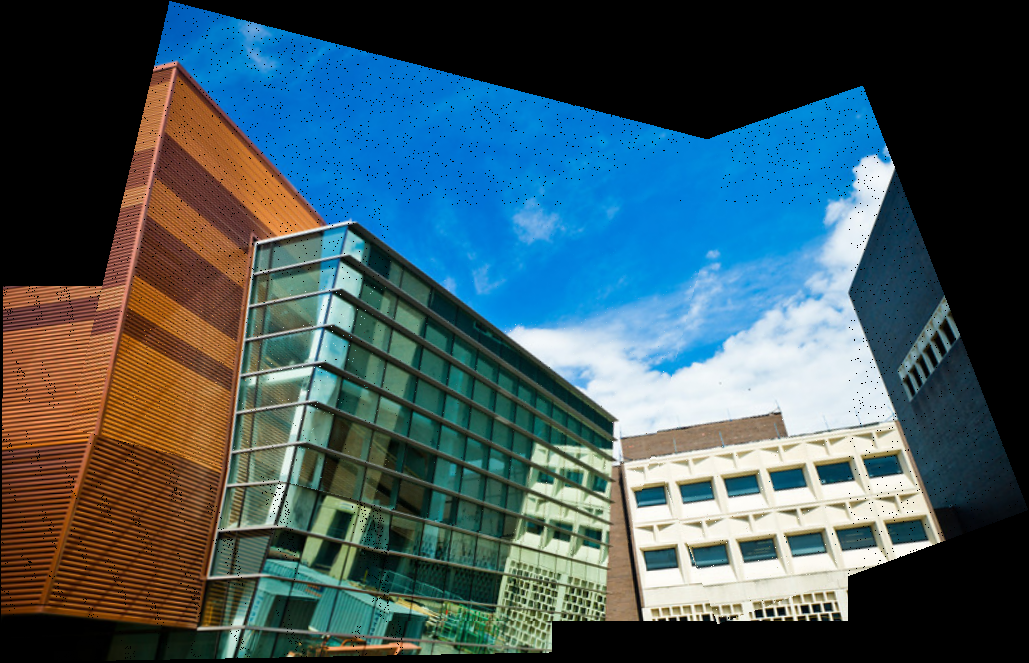
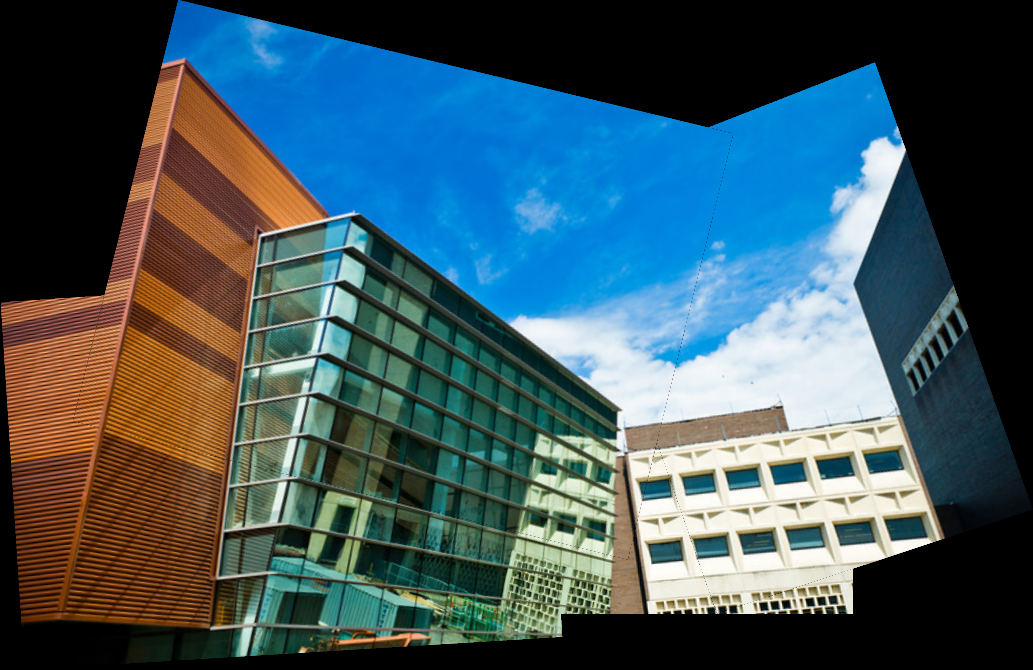
really good non feathering stiching of task2

diff --git a/stitching.py b/stitching.py
@@ -222,52 +222,91 @@ def panorama(imgs: Dict[str, torch.Tensor]):
     overlap = torch.empty((3, 256, 256), dtype=torch.uint8) # assumed empty 256*256 overlap. Update this as per your logic.
 
     #TODO: Add your code here. Do not modify the return and input arguments.
-    save = True
-    load = True
+    if torch.backends.mps.is_available():
+        device = torch.device("mps")
+    else:
+        device = torch.device("cpu")
     data = {}
     max_h = 0
     max_w = 0
+    descriptor = "disk" # dedode
+    matchalgo = "lightglue" # lightglue
+    loftr = None
+    dedode = None
+    disk = None
+    lg = None
     for k, v in imgs.items():
 
         v = v / 255
         if v.ndim == 3:
             v = v.unsqueeze(0)
+        if v.shape[3] > 900 or v.shape[2] > 900:
+            v = torch.nn.functional.interpolate(v, scale_factor=0.5, mode="bilinear", align_corners=False)
         imgs[k] = v
         max_h = max(max_h, v.shape[2])
         max_w = max(max_w, v.shape[3])
+
     keys = list(imgs.keys())
-    for k, v in imgs.items():
-        imgs[k] = torch.nn.functional.pad(v, (0,  max_w - imgs[k].shape[3], 0, max_h - imgs[k].shape[2]))
+
+    # for k, v in imgs.items():
+        # imgs[k] = torch.nn.functional.pad(v, (0,  max_w - imgs[k].shape[3], 0, max_h - imgs[k].shape[2]))
         # print(imgs[k].shape)
-    if save or not load:
-        dedode = K.feature.DeDoDe.from_pretrained(detector_weights="L-C4-v2", descriptor_weights="B-upright")
-        lg = K.feature.LightGlue("dedodeb").eval()
+
+    if descriptor == "disk":
+        disk = K.feature.DISK.from_pretrained("depth").to(device)
+        for k, v in imgs.items():
+            features = disk(v.to(device), pad_if_not_divisible=True)[0]
+            data[k] = {
+                "points": (features.keypoints.cpu(), features.descriptors.cpu()),
+                "matches": 0
+            }
+        del disk
+    else:
+        dedode = K.feature.DeDoDe.from_pretrained(detector_weights="L-C4-v2", descriptor_weights="B-upright").to(device)
 
         for k, v in imgs.items():
 
-            keypoints, scores, descriptors = dedode(v, apply_imagenet_normalization=True)
+            keypoints, _, descriptors = dedode(v.to(device), apply_imagenet_normalization=True, n=1000) #n=2000
             data[k] = {
-                "dedode": (keypoints, scores, descriptors),
+                "points": (keypoints.cpu(), descriptors.cpu()),
                 "matches": 0
             }
-        print("descriptors done")
-        matcher = K.feature.match_smnn
-        loftr = K.feature.LoFTR(pretrained='indoor_new')
-        # RANSAC params
-        inl_th = 1.5
-        max_iter = 50
-        confidence = 0.999
-        max_lo_iters = 15
-        ransac = K.geometry.RANSAC("homography", inl_th, max_iter, max_lo_iters, confidence)
+        del dedode
 
+
+
+    if device =="mps":
+        torch.mps.empty_cache()
+
+    print("descriptors done")
+
+    matcher = K.feature.match_smnn
+
+    if matchalgo == "loftr":
+        loftr = K.feature.LoFTR(pretrained='indoor_new')
+    else:
+        if descriptor == "disk":
+            lg = K.feature.LightGlue("disk").eval().to(device)
+        else :
+            lg = K.feature.LightGlue("dedodeb").eval().to(device) # checck if B is better,
+
+    # RANSAC params
+    inl_th = 0.5
+    max_iter = 200
+    confidence = 0.9999
+    max_lo_iters = 20
+    ransac = K.geometry.RANSAC("homography", inl_th=inl_th, max_iter=max_iter, confidence=confidence, max_lo_iters=max_lo_iters).to(device)
+
+    with torch.no_grad():
         for i in range(len(keys)):
             for j in range(i + 1, len(keys)):
                 k1 = keys[i]
                 k2 = keys[j]
-                k1keypoints, k1scores, k1descriptors = data[k1]["dedode"]
-                k2keypoints, k2scores, k2descriptors = data[k2]["dedode"]
-                k1descriptors = k1descriptors.squeeze(0)
-                k2descriptors = k2descriptors.squeeze(0)
+                k1keypoints, k1descriptors = data[k1]["points"]
+                k2keypoints, k2descriptors = data[k2]["points"]
+                if descriptor == "dedode":
+                    k1descriptors = k1descriptors.squeeze(0)
+                    k2descriptors = k2descriptors.squeeze(0)
 
                 # k1d = data[k1]["dedode"][2].squeeze(0)
                 # k2d = data[k2]["dedode"][2].squeeze(0)
@@ -277,54 +316,62 @@ def panorama(imgs: Dict[str, torch.Tensor]):
                 match_count = match[0].shape[0]
                 data[k1]["matches"] += match_count
                 data[k2]["matches"] += match_count
+
                 if match_count > 30:
-                    # inputdict = {
-                    #     "image0": K.color.rgb_to_grayscale(imgs[k1]),
-                    #     "image1": K.color.rgb_to_grayscale(imgs[k2])
-                    # }
-                    # points = loftr(inputdict)
-                    # # homo = ransac(points["keypoints0"], points["keypoints1"])
-                    # img1 = imgs[k1]
-                    # img2 = imgs[k2]
-                    # shp1 = img1.shape
-                    # shp2 = img2.shape
-                    # h = max(shp1[2], shp2[2])
-                    # w = max(shp1[3], shp2[3])
-                    #
-                    # img1p = torch.nn.functional.pad(img1,(0,w-shp1[3],0,h-shp1[2]))
-                    # img2p = torch.nn.functional.pad(img2,(0,w-shp2[3],0,h-shp2[2]))
-                    print(k1keypoints.shape, k1descriptors.shape)
-                    print(k2keypoints.shape, k2descriptors.shape)
+                    if matchalgo == "loftr":
+                        print(f"\r{k1}, {k2} LoFTR starting. Prelim matches: {match_count}, img shape: {imgs[k1].shape}", end="", flush=True)
+                        print()
 
-                    minval = min(k1keypoints.min(), k2keypoints.min())
-                    maxval = max(k1keypoints.max(), k2keypoints.max())
-                    k1keypoints = 2 * (k1keypoints - minval) / (maxval - minval) -1
-                    k2keypoints = 2 * (k2keypoints - minval) / (maxval - minval) -1
-                    print(torch.max(k1keypoints), torch.max(k2keypoints))
-                    print(torch.min(k1keypoints), torch.min(k2keypoints))
-                    inputdict = {
-                        "image0": {"keypoints": k1keypoints, "descriptors": k1descriptors, "image_size": torch.tensor([[imgs[k1].shape[2], imgs[k1].shape[3]]]) },
-                        "image1": {"keypoints": k2keypoints, "descriptors": k2descriptors, "image_size": torch.tensor([[imgs[k2].shape[2], imgs[k2].shape[3]]]) }
-                    }
-                    out = lg(inputdict)
-                    # print(k1, k2)
+                        inputdict = {
+                            "image0": K.color.rgb_to_grayscale(imgs[k1]),
+                            "image1": K.color.rgb_to_grayscale(imgs[k2])
+                        }
+                        points = loftr(inputdict)
+                        print(f"\r{k1}, {k2} RANSAC starting. LoFTR Matches: {points['keypoints0'].shape}{'':>20}",  end="", flush=True)
 
-                    # prints:
-                    # t2_1.png t2_2.png
-                    # t2_1.png t2_4.png
-                    # t2_2.png t2_3.png
-                    # t2_2.png t2_4.png
-                    return None, None
-                    data[k1][k2] = torch.linalg.inv(homo[0])
-                    data[k2][k1] = homo[0]
+                        homo = ransac(points["keypoints0"], points["keypoints1"])
 
-        torch.save(data, 'data/data.pth')
-        print("ransac done")
+                        # homo = ransac(points["keypoints0"].to(device), points["keypoints1"].to(device))
+                        print(f"\r{k1}, {k2} RANSAC Finished. LoFTR matches: {points['keypoints0'].shape}, RANSAC inliers: {homo[1].sum()}",  end="", flush=True)
+                        print()
 
-    if load:
-        data = torch.load('data/data.pth')
+                        data[k1][k2] = torch.linalg.inv(homo[0].cpu())
+                        data[k2][k1] = homo[0].cpu()
+                    else:
+                        print(f"\r{k1}, {k2} LightGlue starting. Prelim matches: {match_count}, img shape: {imgs[k1].shape}", end="", flush=True)
 
-    ref = max(data, key=lambda x: data[x]["matches"])
+                        if descriptor == "dedode":
+                            inputdict = {
+                                "image0": {"keypoints": k1keypoints.to(device), "descriptors": k1descriptors.unsqueeze(0).to(device), "image_size": torch.tensor([[imgs[k1].shape[3], imgs[k1].shape[2]]], device=device) },
+                                "image1": {"keypoints": k2keypoints.to(device), "descriptors": k2descriptors.unsqueeze(0).to(device), "image_size": torch.tensor([[imgs[k2].shape[3], imgs[k2].shape[2]]], device=device) },
+                            }
+                        else: # disk
+                            inputdict = {
+                                "image0": {"keypoints": k1keypoints.unsqueeze(0).to(device), "descriptors": k1descriptors.unsqueeze(0).to(device), "image_size": torch.tensor([[imgs[k1].shape[3], imgs[k1].shape[2]]], device=device)},
+                                "image1": {"keypoints": k2keypoints.unsqueeze(0).to(device), "descriptors": k2descriptors.unsqueeze(0).to(device), "image_size": torch.tensor([[imgs[k2].shape[3], imgs[k2].shape[2]]], device=device)}
+                            }
+
+                        out = lg(inputdict)
+                        match = out["matches"][0].cpu()
+
+                        k1matches = k1keypoints[match[:, 0]]
+                        k2matches = k2keypoints[match[:, 1]]
+
+                        print(f"\r{k1}, {k2} LightGlue Finished. LightGlue matches: {k2matches.shape[0]}, img shape: {imgs[k1].shape}{'':>20}",  end="", flush=True)
+
+                        homo = ransac(k1matches.to(device), k2matches.to(device))
+                        homo = homo
+                        print(f"\r{k1}, {k2} RANSAC Finished. LightGlue matches: {k2matches.shape[0]}, RANSAC inliers: {homo[1].sum()}, img shape: {imgs[k1].shape}",  end="", flush=True)
+                        print()
+                        data[k1][k2] = torch.linalg.inv(homo[0].cpu())
+                        data[k2][k1] = homo[0].cpu()
+    # torch.save(data, 'data/data.pth')
+    print("ransac done")
+
+    # if load:
+    #     data = torch.load('data/data.pth')
+
+    ref = max(data, key=lambda l: data[l]["matches"])
 
     #bfs
     Q = collections.deque()
@@ -337,16 +384,19 @@ def panorama(imgs: Dict[str, torch.Tensor]):
         cur = Q.popleft()
         print(cur, data[cur].keys())
         for k, v in data[cur].items(): # neighbors but skip the 2 keys and visited checks
-            if k == "matches" or k == "dedode" or k in visited:
+            if k == "matches" or k == "points" or k in visited:
+                continue
+            if cur == "t2_2.png" and k == "t2_4.png":
                 continue
 
             Q.append(k)
             visited.add(k)
             qlog.append(k)
             # compute transformations of neighbor to cur
+            print(cur, k)
             homo = Hs[cur] @ data[cur][k]
             Hs[k] = homo
-    # print(qlog)
+    print(qlog)
     print("BFS done")
     x = [0]
     y = [0]
@@ -380,7 +430,8 @@ def panorama(imgs: Dict[str, torch.Tensor]):
             "mask": src_mask
         }
         out.append(src_img)
-        final = torch.where(src_mask == 1, src_img, final)
+        # src_blur_mask
+        final = torch.where(src_mask > 0.5, src_img, final)
 
         # better_show(final)
 
